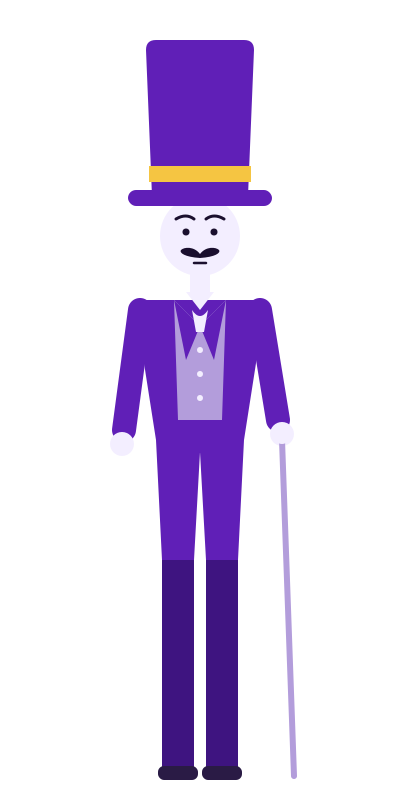
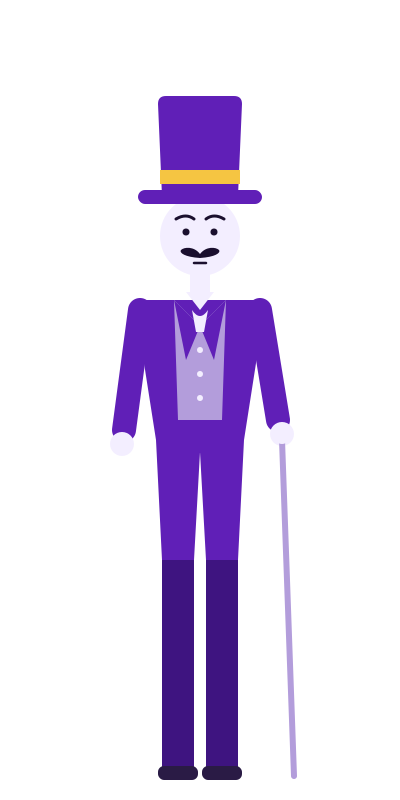
Dandy Man: smaller hat; candidate A becomes idle.svg
Claude-Session: https://claude.ai/code/session_01MsLwUh4sHtdYL5twesgV4U

Changed region(s): [[0.33, 0.0312, 0.69, 0.2812]]

diff --git a/cast/dandy-man/gen_candidates.py b/cast/dandy-man/gen_candidates.py
@@ -26,14 +26,15 @@ SHADE = "#3E1480"  # darker than primary for trousers/shoes; 60% of the figure s
 
 
 def hat(tilt_deg, tall=True):
-    top = 40 if tall else 70
-    crown = f"M152 196 L146 {top + 10} Q146 {top} 156 {top} L244 {top} Q254 {top} 254 {top + 10} L248 196 Z"
-    band_y = 166
+    # Crown sits on the head (y=196). "tall" is a modest top hat; the small one is a bowler-ish stub.
+    top = 96 if tall else 120
+    crown = f"M162 196 L158 {top + 8} Q158 {top} 166 {top} L234 {top} Q242 {top} 242 {top + 8} L238 196 Z"
+    band_y = 170
     return f"""
   <g transform="rotate({tilt_deg} 200 196)">
     <path d="{crown}" fill="{PRIMARY}"/>
-    <rect x="149" y="{band_y}" width="102" height="16" fill="{GOLD}"/>
-    <rect x="128" y="190" width="144" height="16" rx="8" fill="{PRIMARY}"/>
+    <rect x="160" y="{band_y}" width="80" height="14" fill="{GOLD}"/>
+    <rect x="138" y="190" width="124" height="14" rx="7" fill="{PRIMARY}"/>
   </g>"""
 
 
